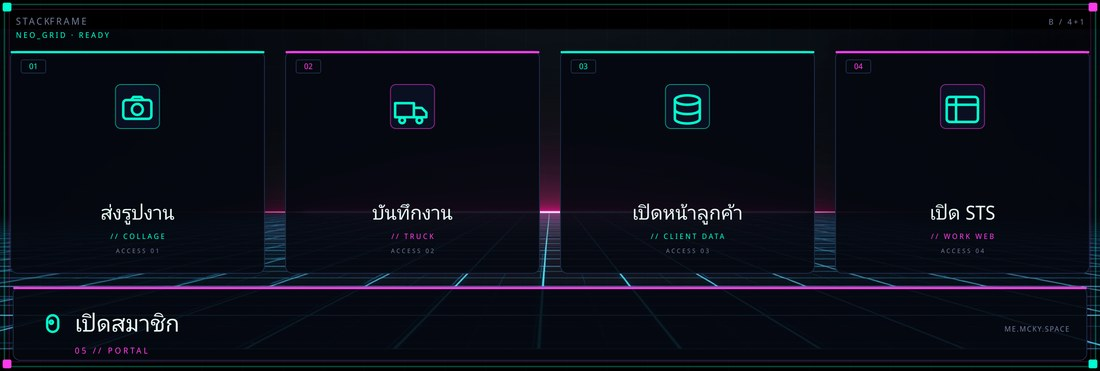
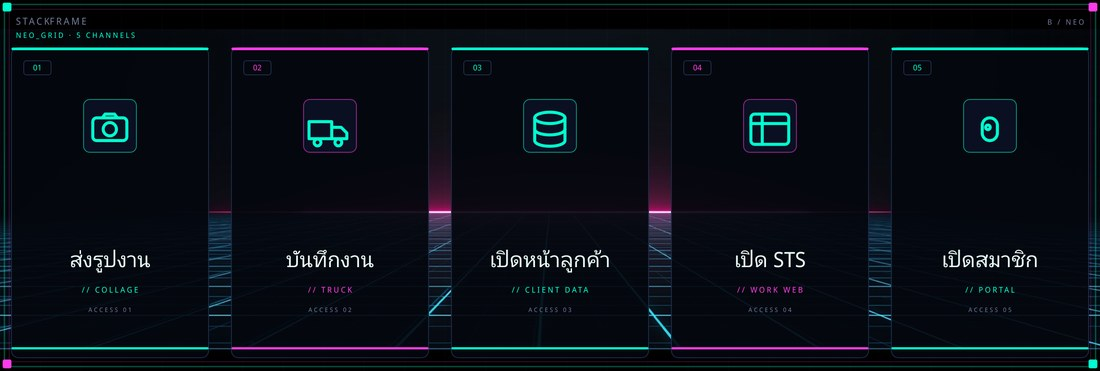
feat(richmenu): NEO GRID theme + 5 buttons in a single row
- Switch to theme B (NEO GRID): navy/cyan/magenta, AI art floor, bezel,
  corner LEDs, grid overlay
- 5 equal full-height columns: LIFF / truck / data / STS / portal (one
  full-width row, no bottom bar; bigger tap targets)
- Deployed as default rich menu

diff --git a/frontend/previews/richmenu/index.html b/frontend/previews/richmenu/index.html
@@ -15,17 +15,17 @@
   footer code{background:#1e2129;padding:2px 6px;border-radius:6px}
 </style></head><body>
 <header><h1>Rich menu redesign · STACK<span style="color:var(--acc)">//</span>FRAME</h1>
-<p>4 concepts, 2500×843, black backgrounds. Tap areas identical in all: แถวบน 4 ปุ่ม (ส่งรูปงาน LIFF · บันทึกงาน truck · เปิดหน้าลูกค้า data · เปิด STS oms.cfwenterprise.com/sts) + แถวล่างเต็มความกว้าง 1 ปุ่ม (เปิดสมาชิก → me.mcky.space)</p></header>
+<p>4 concepts, 2500×843, black backgrounds. Tap areas identical in all: 5 ปุ่มเรียงแถวเดียว (ส่งรูปงาน LIFF · บันทึกงาน truck · เปิดหน้าลูกค้า data · เปิด STS oms.cfwenterprise.com/sts · เปิดสมาชิก me.mcky.space)</p></header>
 <div class="grid">
-<div class="card"><img src="a-studio-web.jpg" alt="STUDIO 03">
-<div class="meta"><b>STUDIO 03</b><span>WEB EDITION / LIME ON BLACK</span></div>
-<p class="note">Full size: <a href="a-studio.png" style="color:#7db8ff">a-studio.png</a></p></div><div class="card"><img src="b-neo-web.jpg" alt="NEO GRID">
+<div class="card"><img src="b-neo-web.jpg" alt="NEO GRID">
 <div class="meta"><b>NEO GRID</b><span>NEON CYAN x MAGENTA</span></div>
-<p class="note">Full size: <a href="b-neo.png" style="color:#7db8ff">b-neo.png</a></p></div><div class="card"><img src="c-field-web.jpg" alt="FIELD 01">
+<p class="note">Full size: <a href="b-neo.png" style="color:#7db8ff">b-neo.png</a></p></div><div class="card"><img src="a-studio-web.jpg" alt="STUDIO 03">
+<div class="meta"><b>STUDIO 03</b><span>WEB EDITION / LIME ON BLACK</span></div>
+<p class="note">Full size: <a href="a-studio.png" style="color:#7db8ff">a-studio.png</a></p></div><div class="card"><img src="c-field-web.jpg" alt="FIELD 01">
 <div class="meta"><b>FIELD 01</b><span>SITE LOG / FILM GRADE</span></div>
 <p class="note">Full size: <a href="c-field.png" style="color:#7db8ff">c-field.png</a></p></div><div class="card"><img src="d-editorial-web.jpg" alt="EDITORIAL">
 <div class="meta"><b>EDITORIAL</b><span>DARK POSTER / HIGH CONTRAST</span></div>
 <p class="note">Full size: <a href="d-editorial.png" style="color:#7db8ff">d-editorial.png</a></p></div>
 </div>
-<footer>Render: <code>NODE_PATH=backend/node_modules:frontend/node_modules node scripts/richmenu-designs.cjs</code> · Deploy a pick: <code>--deploy a-studio</code></footer>
+<footer>Render: <code>NODE_PATH=backend/node_modules:frontend/node_modules node scripts/richmenu-designs.cjs</code> · Deploy a pick: <code>--deploy b-neo</code></footer>
 </body></html>
